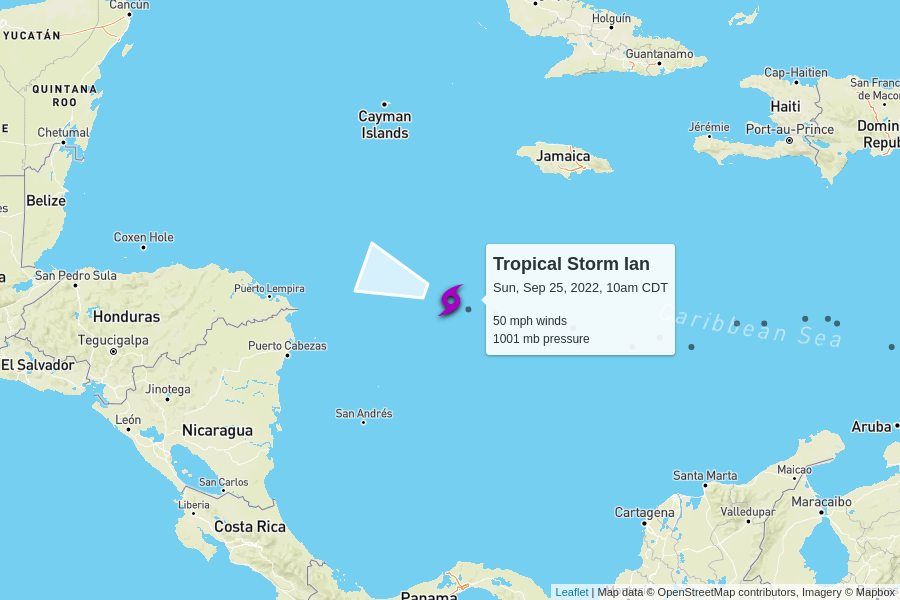
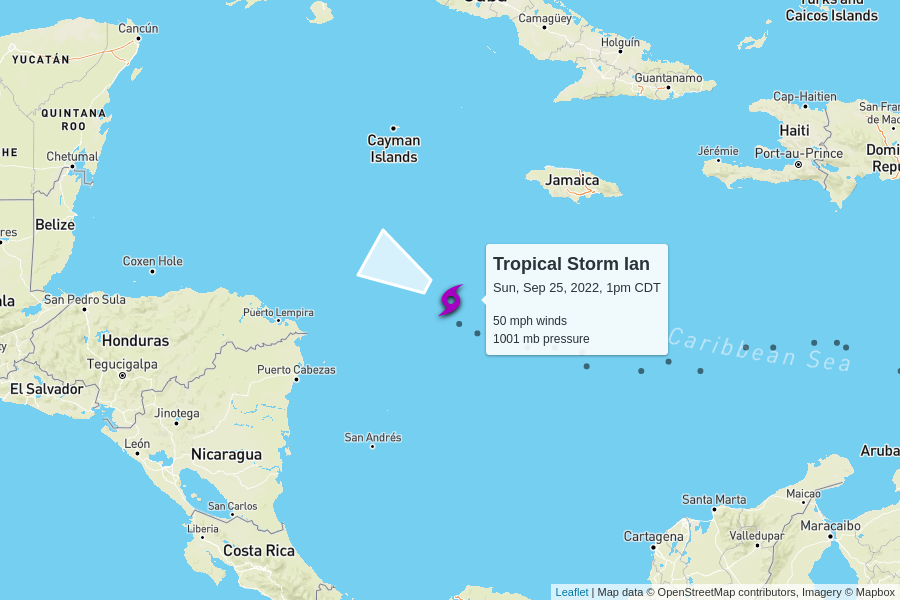
automatic update

diff --git a/docs/index.html b/docs/index.html
@@ -100,7 +100,7 @@
         <td colspan="6" class="storm category-0" >
           <h2>
             Tropical Storm Ian
-            <p class="updated">last updated <span data-time>2022-09-25T15:00:00.000Z</span></p>
+            <p class="updated">last updated <span data-time>2022-09-25T18:00:00.000Z</span></p>
           </h2>
         </td>
       </tr>
@@ -118,9 +118,9 @@
         <td>50 mph</td>
         <td>1001 mb</td>
         <td>
-          14 mph to the west-northwest
+          12 mph to the west-northwest
           <br/>
-          <span style="display: inline-block; font-size: 1.5em; transform: rotate(290deg);">↑</span>
+          <span style="display: inline-block; font-size: 1.5em; transform: rotate(300deg);">↑</span>
         </td>
         <td><a href="https://raw.githubusercontent.com/mgwalker/atlantic-hurricanes/main/data/csv/AL092022.csv">AL092022.csv</a></td>
         <td><a href="https://www.nhc.noaa.gov/archive/2022/IAN.shtml?">NHC advisories</a></td>
